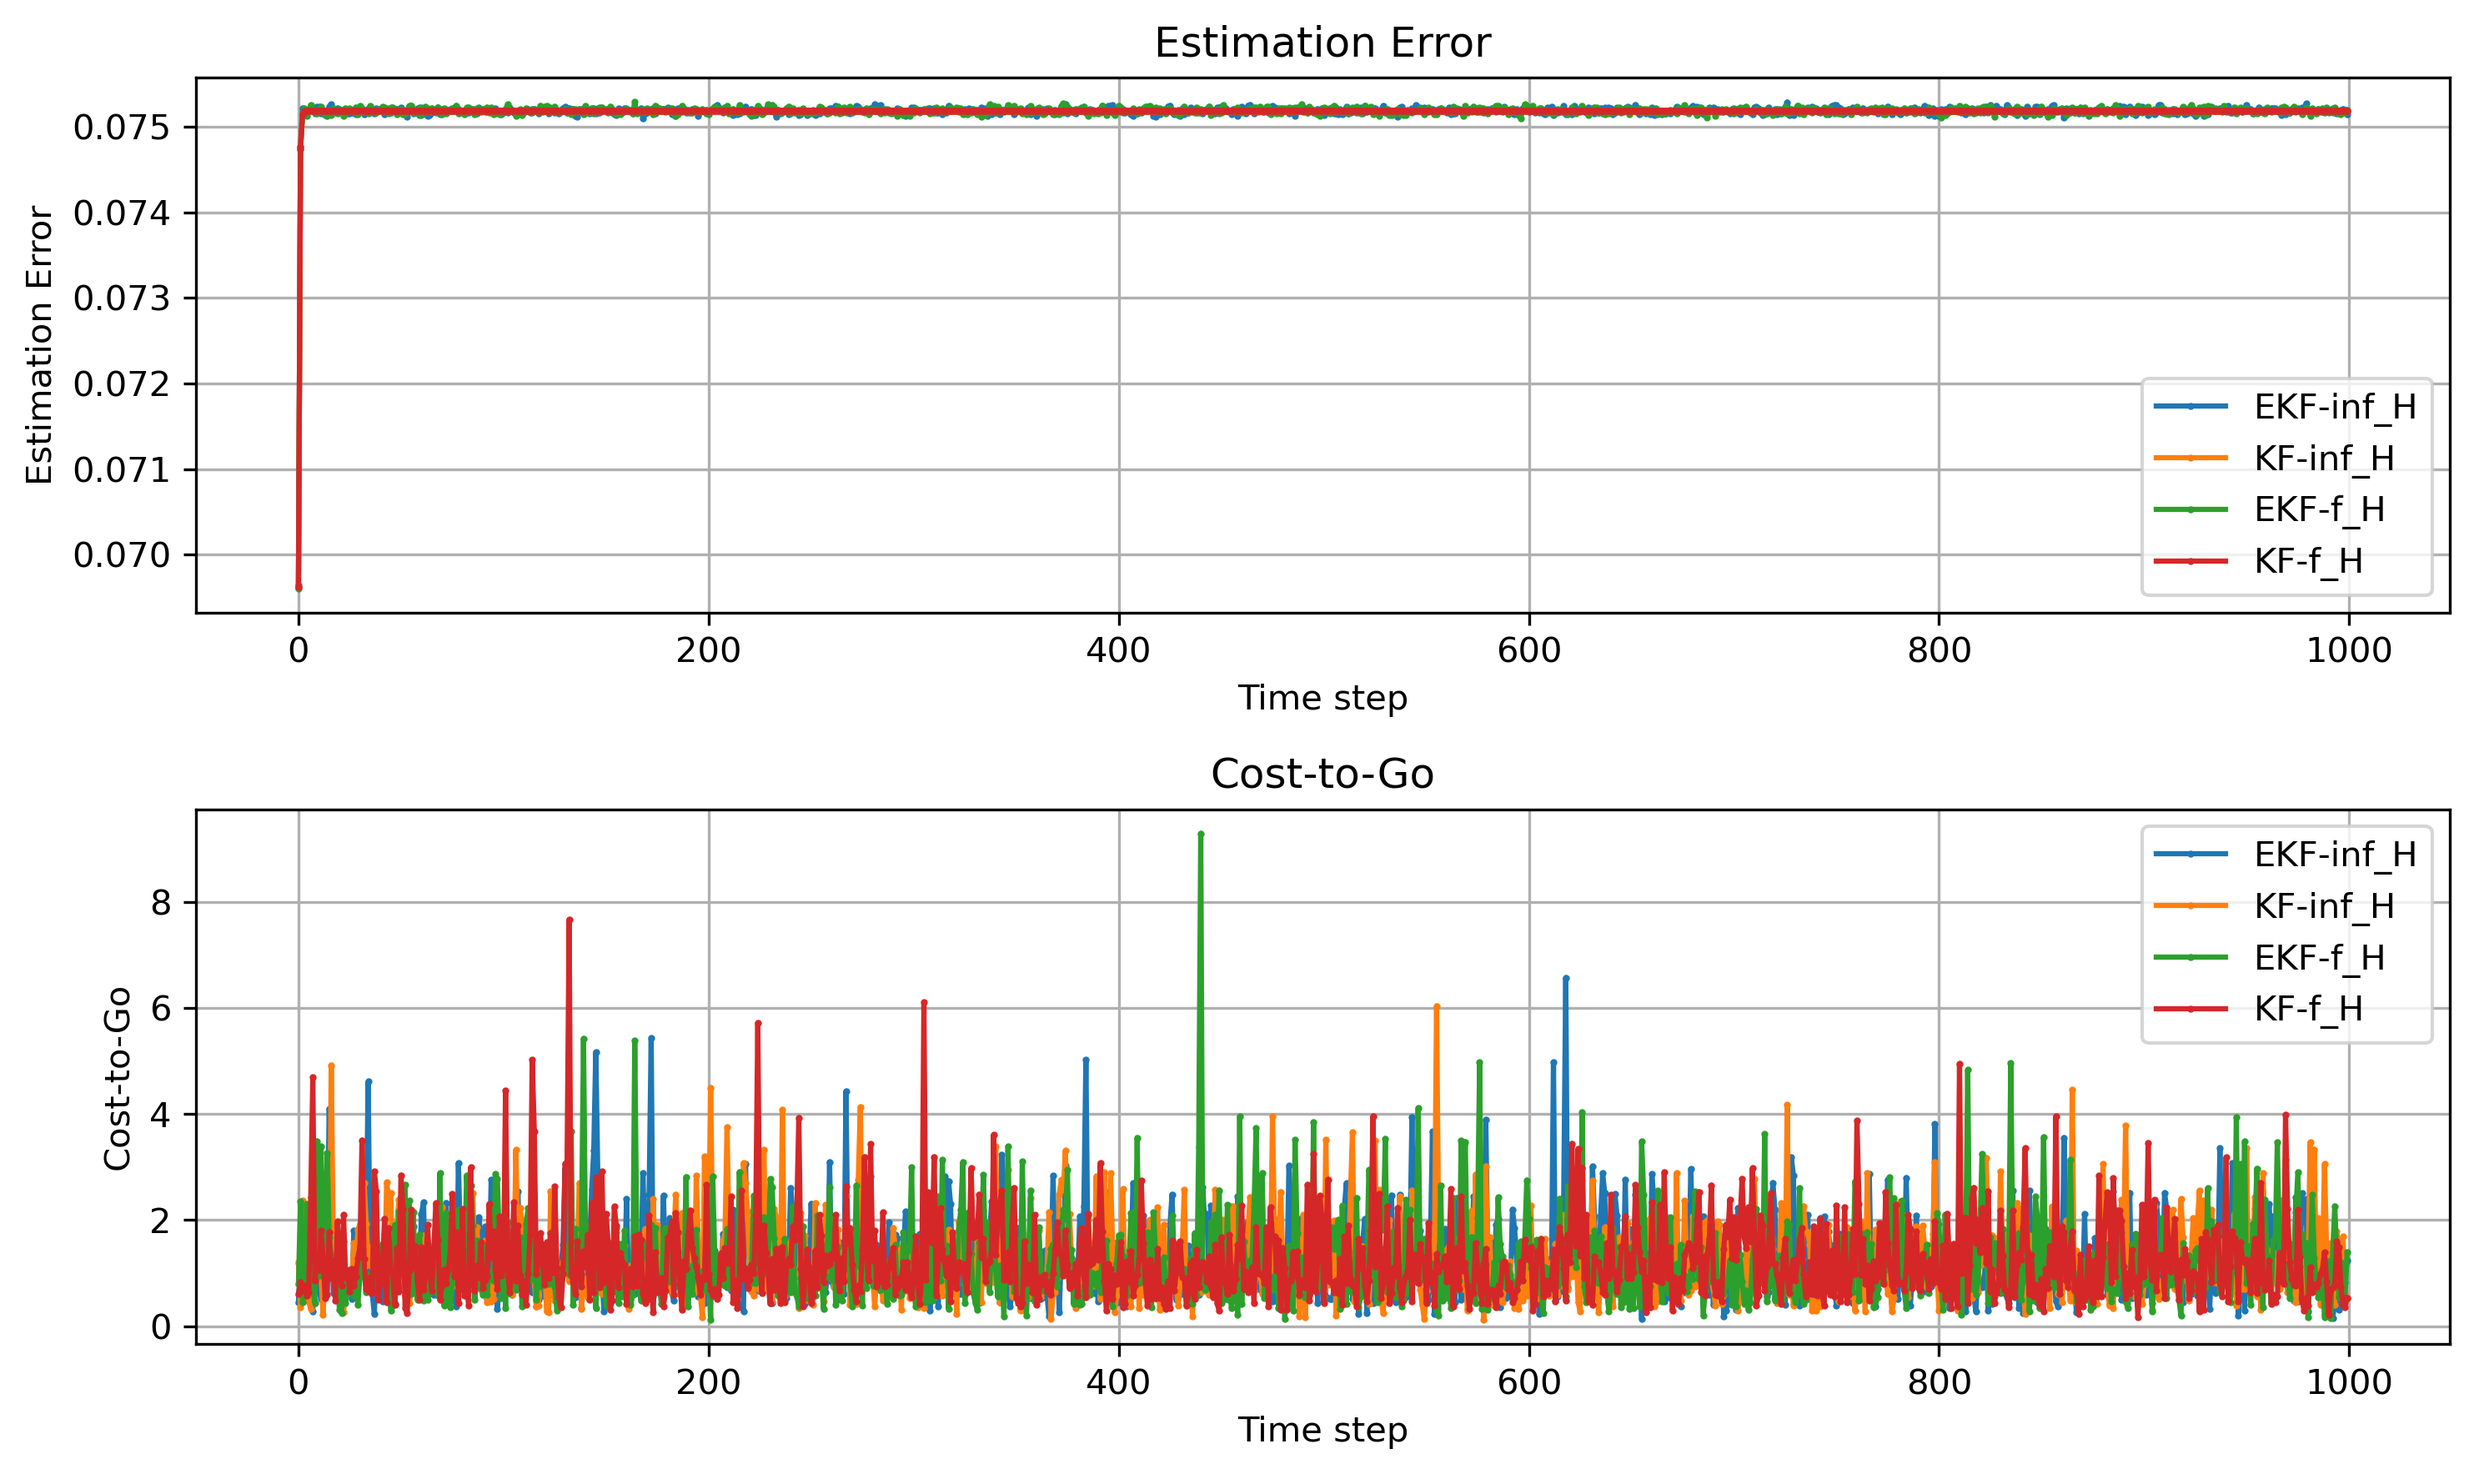
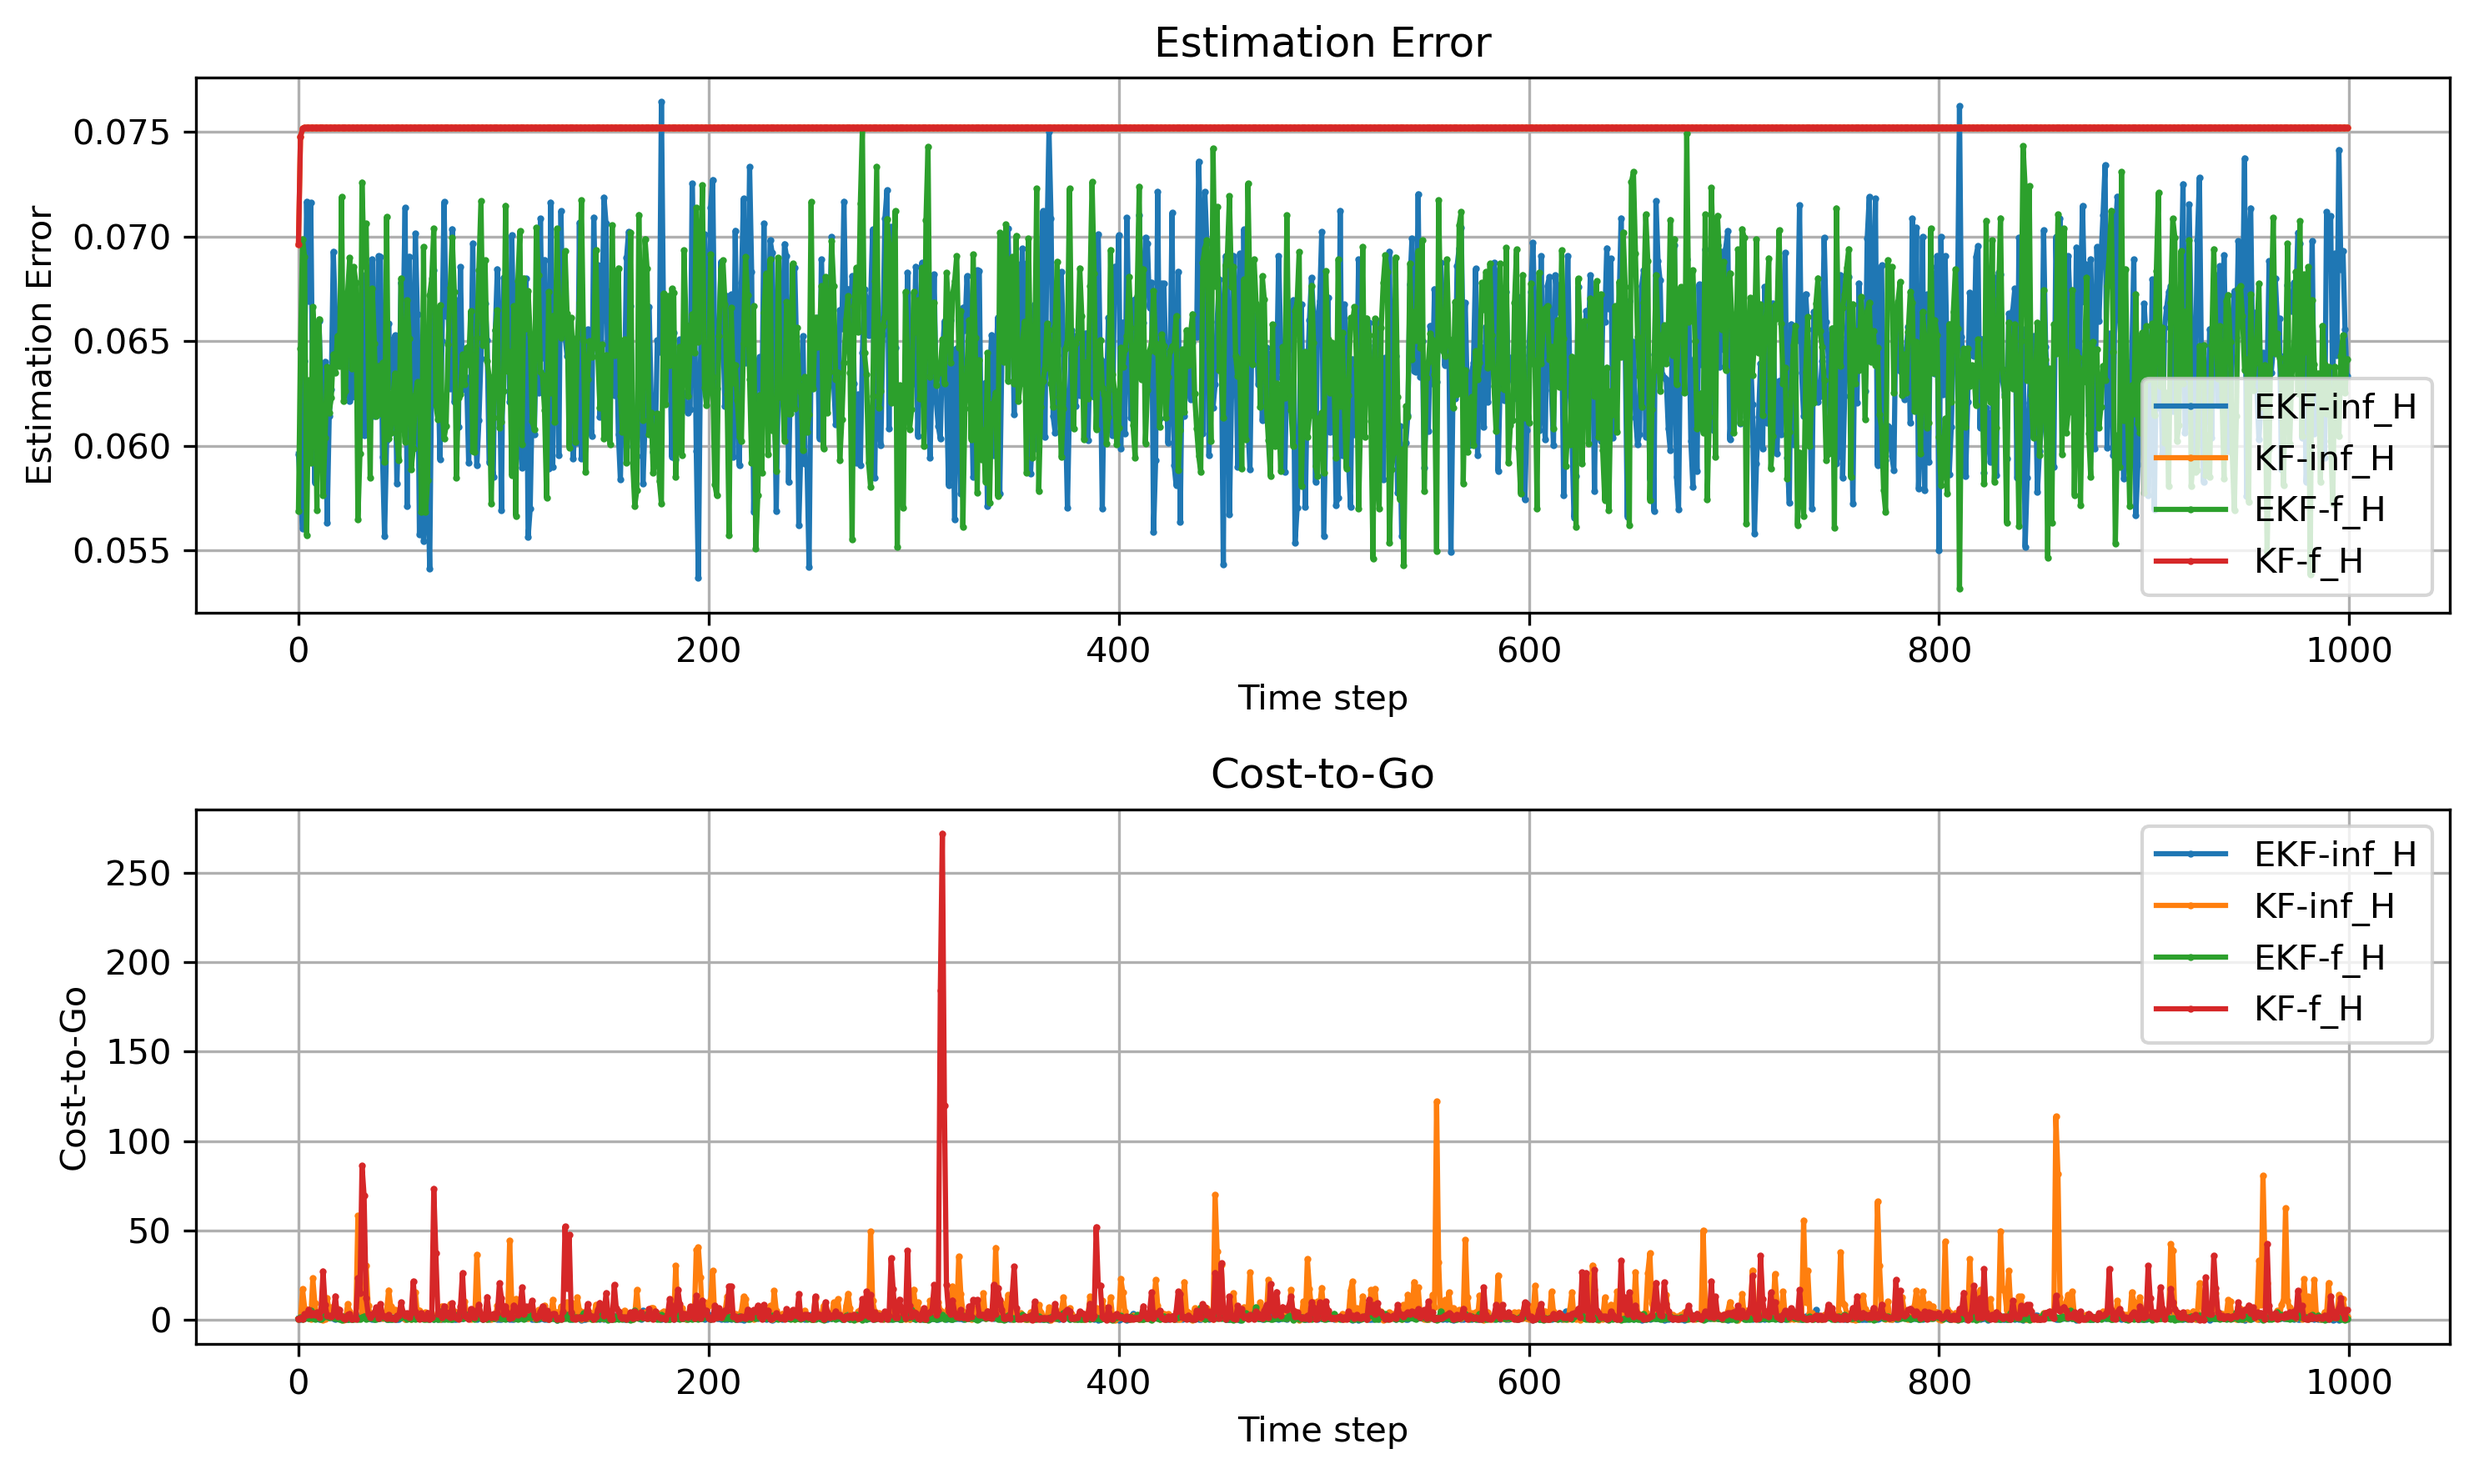
fixed bugs; downscale inputs to avoid floating overflow; better result of ekf vs qkf

Changed region(s): [[0.031, 0.0622, 0.9922, 0.4044], [0.031, 0.5911, 0.9922, 0.9021], [0.5581, 0.6844, 0.5891, 0.7155]]

diff --git a/LQG_QKF/LQG_QKF.py b/LQG_QKF/LQG_QKF.py
@@ -54,9 +54,7 @@ def finite_horizon_lqr(A, B, Q, R, N=100, Qf=None):
     P = Qf.copy()
     # backward recursion
     for k in reversed(range(N)):
-        G    = R + B.T @ P @ B
-        Kk   = np.linalg.solve(G, B.T @ P @ A)
-        P    = Q + A.T @ P @ (A - B @ Kk)
+        P = Q + A.T @ P @ A - A.T @ P @ B @ np.linalg.pinv(R + B.T @ P @ B) @ B.T @ P @ A
     return P
 
 class LQG_QKF:
@@ -93,6 +91,9 @@ class LQG_QKF:
         # lqr
         self.Q = Q.astype(np.float64)
         self.R = R.astype(np.float64)
+        
+        # lqe
+        self.P_est = np.eye(self.n) * small_value  # estimation error covariance matrix 
     
     def update_lqr(self, infinite_horizon = False):
         goal_state = self.F.get_current_state() # shape (n,1)
@@ -136,32 +137,32 @@ class LQG_QKF:
         self.F.set_control(u_new) # update control input vector
         return 
     
-    def update_lqr_orig(self):
+    def update_lqr_ekf(self):
         # LQR update only with original state, no augmented state
-        P_lqr = scipy.linalg.solve_discrete_are(self.A, self.B, self.Q, self.R)  # P is the fixed-point
+        P_lqr = scipy.linalg.solve_discrete_are(self.A, self.B, self.Q[:self.n, :self.n], self.R)  # P is the fixed-point
         feedback_gain = -np.linalg.pinv(self.R + self.B.T @ P_lqr @ self.B) @ self.B.T @ P_lqr @ self.A
         u_new = feedback_gain @ (self.F.get_current_state() - self.x_hat)  # control input
         self.F.set_control(u_new)
         return
         
     
-    def update_lqe(self):
+    def update_lqe_qkf(self):
         Phi  = self.F.get_A_tilde()
         Sigma_tilde = self.F.aug_process_noise_covar()
         mu_tilde = self.F.mu_tilde()
-    
+        
         # state prediction     Z_{t|t‑1} ,  P⁽ᶻ⁾_{t|t‑1}
         Z_pred = Phi @ self.Z_est + mu_tilde
-        P_pred = Phi @ self.Pz_est @ Phi.T + Sigma_tilde
+        Pz_pred = Phi @ self.Pz_est @ Phi.T + Sigma_tilde
 
         # measurement prediction Y_{t|t‑1} , innovation cov  M
         measA = self.sensor.get_measA() # shape (m, 1)
         measB_tilde = self.sensor.get_aug_measB() # shape (m, n+n^2)
         Y_pred = measA + measB_tilde @ Z_pred # shape (m, n+n^2)
-        measM = self.sensor.get_aug_measB() @ P_pred @ self.sensor.get_aug_measB().T + self.V
+        estM = self.sensor.get_aug_measB() @ Pz_pred @ measB_tilde.T + self.V
 
         # Kalman gain          Kₜ
-        K = P_pred @ self.sensor.get_aug_measB().T @ np.linalg.inv(measM)
+        K = Pz_pred @ self.sensor.get_aug_measB().T @ np.linalg.inv(estM)
 
         # state update         Z_{t|t} ,  P⁽ᶻ⁾_{t|t}
         z, _, _ = self.F.aug_state()
@@ -169,36 +170,73 @@ class LQG_QKF:
         innovation = Y_meas - Y_pred
         self.Z_est = Z_pred + K @ innovation
         
-        # Joseph form of the covariance update 
-        I = np.eye(P_pred.shape[0])
-        Btil = measB_tilde      # your sensor.get_aug_measB()
-        V    = self.V
-
-        # Joseph‑form update
-        Pj = (I - K @ Btil) @ P_pred @ (I - K @ Btil).T \
-            + K @ V @ K.T
-
+        Pz_1 = Pz_pred - K @ estM @ K.T
+        self.Pz_est = Pz_1
         # keep the classical x̂ part handy for the LQR
         n = self.n
         self.x_hat = self.Z_est[:n, :]
-
         return 
+    
+    def update_lqe_ekf(self):
+        # Jacobian of the measurement function
+        m = self.sensor.C.shape[0]
+        temp_term = [None] * m
+        for i in range(m):
+            temp_term[i] = 2 * self.sensor.M[i] @ self.F.get_current_state()
+        temp_term = np.array(temp_term)
+        C_tilde = self.sensor.C + temp_term.squeeze()
+        
+        # priori estimate 
+        x_hat_pri = self.A @ self.x_hat + self.B @ self.F.get_current_control()   
+        
+        # P_k-1
+        p0 = self.A @ self.P_est @ self.A.T + self.W
+        
+        # kalman gain
+            # K = P- @ C^T @ inv(C @ P- @ C^T + V)
+        kalman_gain =(p0 @ C_tilde.T @ np.linalg.pinv(C_tilde @ p0 @ C_tilde.T + self.V))
+        self.kalman_gain = (kalman_gain)
+        
+        # measurement
+        z = self.sensor.measure(self.F.get_current_state())
+        
+        # innovation
+        innov = z - self.sensor.measure_pred(x_hat_pri)
+        
+        # posterior estimate
+        x_hat_post = x_hat_pri + kalman_gain @ innov
+        self.x_hat = (x_hat_post)
+        
+        # P_k - Propagation of the estimation error covariance matrix
+        p1 = (np.eye(self.n) - kalman_gain @ C_tilde) @ p0
+        self.P_est = (p1)
+        return
+    
     
     def forward_state(self):
         self.F.forward()
         
-    def run_sim(self):
+    def run_sim_qkf(self):
         estimate_error_list = []
         for _ in tqdm.tqdm(range(1, self.H + 1, 1)):
             # self.update_lqr_orig()
             self.update_lqr()
             self.forward_state()
-            self.update_lqe()
+            self.update_lqe_qkf()
             
-            Z_est = self.Z_est
-            x_est = Z_est[:self.n, :]
-            err = np.linalg.norm(self.F.get_current_state() - x_est)
-            estimate_error_list.append(err)
+            # print('u:', self.F.get_current_control())
+            estimate_error_list.append(np.trace(self.Pz_est[:self.n, :self.n]))
+        return estimate_error_list
+    
+    def run_sim_ekf(self):
+        estimate_error_list = []
+        for _ in tqdm.tqdm(range(1, self.H + 1, 1)):
+            # self.update_lqr_orig()
+            self.update_lqr_ekf()
+            self.forward_state()
+            self.update_lqe_ekf()
+            
+            estimate_error_list.append(np.trace(self.P_est))
         return estimate_error_list
 
 def main():
@@ -206,14 +244,14 @@ def main():
     p = 3
     m = 2
     
-    W = generate_random_symmetric_matrix(n, scale=1e-3)
-    A = np.random.randn(n, n) * 0.8
-    B = np.random.randn(n, p) * 0.5
+    W = generate_random_symmetric_matrix(n, scale=1e-2)
+    A = np.random.randn(n, n) * 0.8 * 1e-2
+    B = np.random.randn(n, p) * 0.5 * 1e-2
     
     F = StateDynamics(n, p , W, A, B)
     C = np.random.randn(m, n)
     
-    M = np.random.randn(m, n, n)
+    M = np.random.randn(m, n, n) * 1e-2
     V = generate_random_symmetric_matrix(m, scale=1e-2)
     S = sensor(C, M, V)
     
@@ -221,16 +259,20 @@ def main():
     Q = generate_random_symmetric_matrix(n+n**2, scale=1.0)
     # Q = generate_random_symmetric_matrix(n, scale=1.0)
     R = generate_random_symmetric_matrix(p, scale=1.0)
-    lqg_qkf_sys = LQG_QKF(F, S, Q, R, H=1000)
+    lqg_ekf_sys = LQG_QKF(F, S, Q, R, H=1000)
+    err_list_ekf = lqg_ekf_sys.run_sim_ekf()
     
-    err_list = lqg_qkf_sys.run_sim()
+    lqg_qkf_sys = LQG_QKF(F, S, Q, R, H=1000)
+    err_list_qkf = lqg_qkf_sys.run_sim_qkf()
     # print("Estimate error list: ", err_list)
-    plt.plot(err_list, label='Estimate error')
+    plt.plot(err_list_ekf, label=f'ekf measure error')
+    plt.plot(err_list_qkf, label=f'qkf measure error')
     plt.legend()
     plt.title('Estimate error')
     plt.xlabel('Time step')
     plt.ylabel('Estimate error')
     plt.grid()
+    plt.savefig('LQG_QKF/qkf_vs_ekf.png')
     plt.show()
     return
 

diff --git a/LQG_QKF/stateDynamics.py b/LQG_QKF/stateDynamics.py
@@ -223,8 +223,21 @@ class sensor(object):
     # self.M has shape (m, n, n)
     term2 = np.zeros((self.m, 1)) # shape (m,1)
     for i in range(self.m):
-        term2[i] = (x.T @ self.M[i] @ x).item() # shape (1,1) 
+        e = np.zeros((self.m, 1)) # shape (m,1)
+        e[i] = 1
+        term2 += e @ x.T @ self.M[i] @ x
     return term1 + term2 + self.v # shape (m,1)
+  
+  def measure_pred(self, x_pred):
+    term1 = self.C @ x_pred
+
+    # self.M has shape (m, n, n)
+    term2 = np.zeros((self.m, 1)) # shape (m,1)
+    for i in range(self.m):
+        e = np.zeros((self.m, 1)) # shape (m,1)
+        e[i] = 1
+        term2 += e @ x_pred.T @ self.M[i] @ x_pred  
+    return term1 + term2 # shape (m,1)
   
   def aug_measure(self, z):
     self.v = np.random.multivariate_normal(np.zeros(self.V.shape[0]), self.V).reshape(-1, 1)

diff --git a/LQG_EKF.py b/LQG_EKF.py
@@ -203,7 +203,7 @@ if __name__ == "__main__":
     C = np.random.randn(m, n1 + n2) * 0.1
     M = []
     for i in range(m):
-        M.append(np.random.randn(n1 + n2, n1 + n2) * 1e-3)
+        M.append(np.random.randn(n1 + n2, n1 + n2) * 1)
     M = np.array(M)  # Convert list of matrices to a 3D numpy array
 
     # Cost matrices (should be positive definite)
